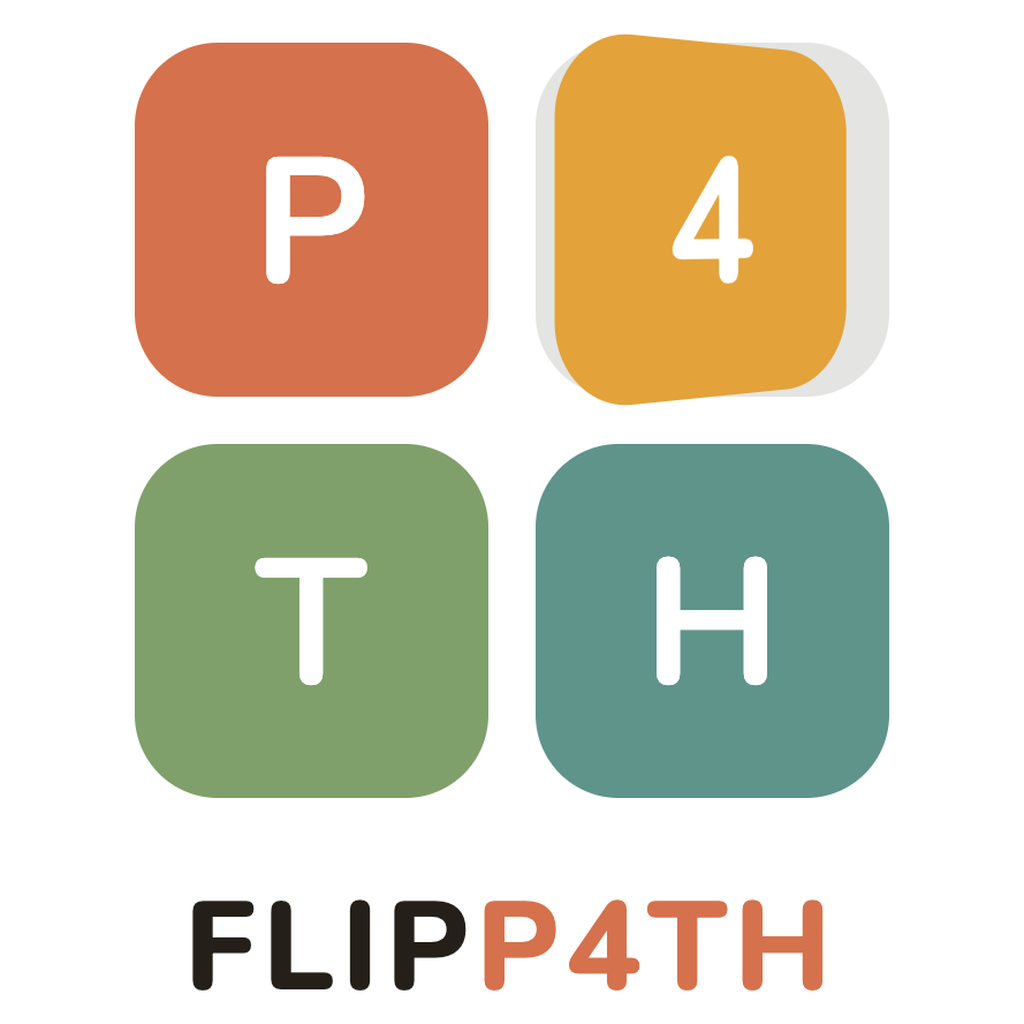
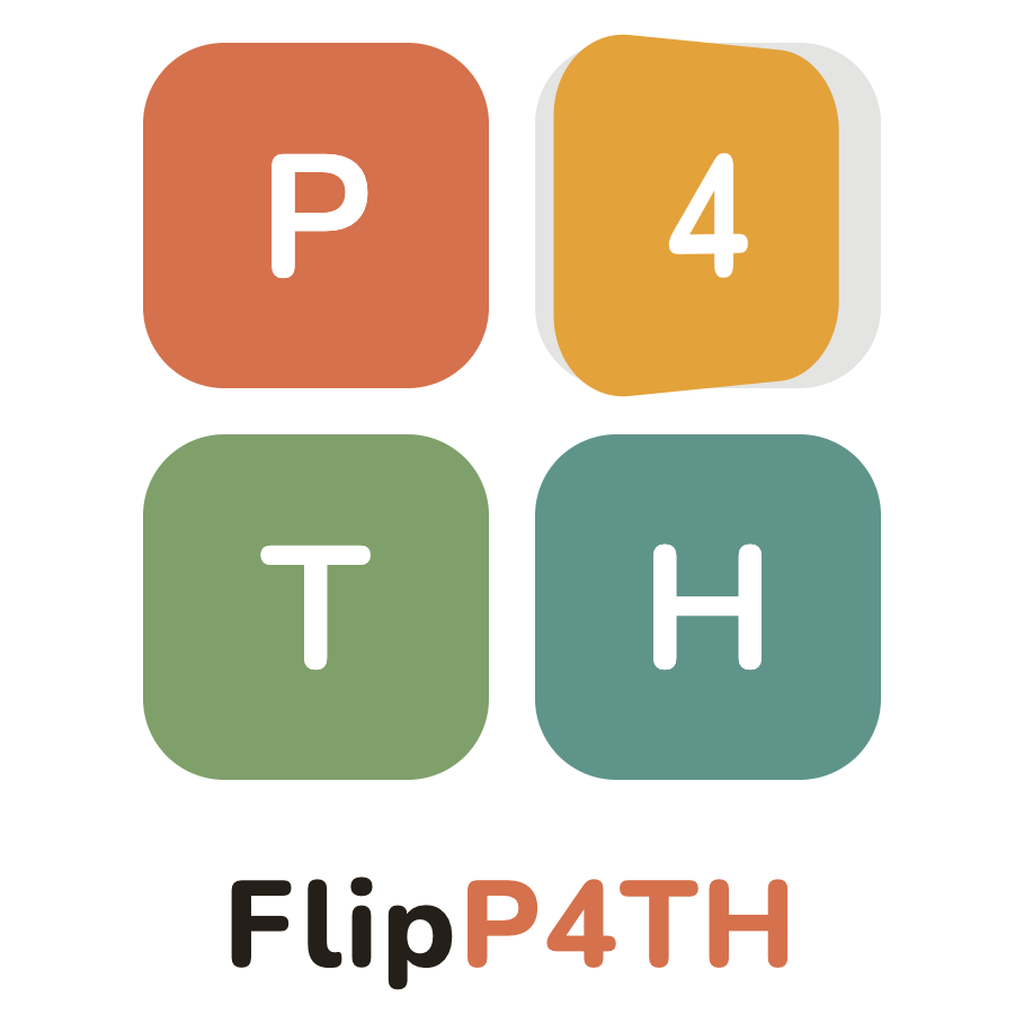
backup

diff --git a/index.html b/index.html
@@ -2,24 +2,24 @@
 <html lang="en">
 <head>
   <meta charset="utf-8">
-  <title>FLIP P4TH — Flip Puzzle Game</title>
+  <title>FlipP4TH — Flip Puzzle Game</title>
   <meta name="viewport" content="width=device-width,initial-scale=1,maximum-scale=1,user-scalable=no"/>
   <meta name="mobile-web-app-capable" content="yes">
   <meta name="apple-mobile-web-app-status-bar-style" content="default">
 
   <!-- App deep linking -->
   <meta property="al:ios:app_store_id" content="YOUR_APP_STORE_ID">
-  <meta property="al:ios:app_name" content="FLIP P4TH">
+  <meta property="al:ios:app_name" content="FlipP4TH">
   <meta property="al:ios:url" content="flipp4th://">
   <meta property="al:android:package" content="com.helioshred.flipp4th">
-  <meta property="al:android:app_name" content="FLIP P4TH">
+  <meta property="al:android:app_name" content="FlipP4TH">
   <meta property="al:android:url" content="flipp4th://">
 
   <link rel="icon" type="image/png" href="favicon.png">
   <link rel="apple-touch-icon" href="apple-touch-icon.png">
 
   <!-- Open Graph -->
-  <meta property="og:title" content="FLIP P4TH — Flip Puzzle Game">
+  <meta property="og:title" content="FlipP4TH — Flip Puzzle Game">
   <meta property="og:description" content="A new flip puzzle every day. Can you solve today's?">
   <meta property="og:type" content="website">
 
@@ -166,7 +166,7 @@
   <!-- ENTRY VIEW -->
   <div class="view active" id="view-entry">
     <div class="card">
-      <img class="logo-img" src="FlipPath-icon.png" alt="FLIP P4TH">
+      <img class="logo-img" src="FlipPath-icon.png" alt="FlipP4TH">
       <div class="level-label-wrap daily">
         <div class="small">DAILY CHALLENGE &middot; <span id="today-label"></span></div>
         <div class="name" id="level-name">Loading...</div>
@@ -227,14 +227,14 @@
   <!-- SHARED/DEEPLINK VIEW (download prompt for ?s= and ?p= links) -->
   <div class="view" id="view-shared" style="max-width:360px">
     <div class="card" style="gap:20px">
-      <img class="logo-img" src="FlipPath-icon.png" alt="FLIP P4TH">
+      <img class="logo-img" src="FlipPath-icon.png" alt="FlipP4TH">
       <div style="text-align:center">
         <div style="font:800 20px 'Nunito',sans-serif" id="shared-title">Someone shared a puzzle!</div>
-        <div style="font:700 13px 'Nunito',sans-serif;color:#8d8474;margin-top:6px" id="shared-subtitle">Download FLIP P4TH to play shared levels</div>
+        <div style="font:700 13px 'Nunito',sans-serif;color:#8d8474;margin-top:6px" id="shared-subtitle">Download FlipP4TH to play shared levels</div>
       </div>
       <div class="store-section" style="margin-top:0">
         <div class="store-header">
-          <div class="store-title">Get FLIP P4TH</div>
+          <div class="store-title">Get FlipP4TH</div>
           <div class="store-sub">Play shared levels &amp; 340+ puzzles!</div>
         </div>
         <div class="store-buttons">
@@ -365,7 +365,7 @@
       if (isDeepLink) {
         if (isLevelLink) {
           document.getElementById('shared-title').textContent = 'Someone challenged you!';
-          document.getElementById('shared-subtitle').textContent = 'Download FLIP P4TH to play this level';
+          document.getElementById('shared-subtitle').textContent = 'Download FlipP4TH to play this level';
         }
         showView('view-shared');
 
@@ -442,7 +442,7 @@
 
       // Share
       document.getElementById('btn-share').onclick = function() {
-        var text = "I solved today's FLIP P4TH Daily Challenge" +
+        var text = "I solved today's FlipP4TH Daily Challenge" +
           (winMoves ? ' in ' + winMoves + ' moves' : '') +
           '! ' + streak + '-day streak.\nhttps://flipp4th.app/';
         if (navigator.share) {

diff --git a/terms.html b/terms.html
@@ -3,7 +3,7 @@
 <head>
   <meta charset="UTF-8">
   <meta name="viewport" content="width=device-width, initial-scale=1.0">
-  <title>Terms of Use - FLIP P4TH</title>
+  <title>Terms of Use - FlipP4TH</title>
   <link rel="preconnect" href="https://fonts.googleapis.com">
   <link rel="preconnect" href="https://fonts.gstatic.com" crossorigin>
   <link href="https://fonts.googleapis.com/css2?family=Nunito:wght@600;800&display=swap" rel="stylesheet">
@@ -70,12 +70,12 @@
 </head>
 <body>
   <div class="container">
-    <a class="back-link" href="/">&larr; Back to FLIP P4TH</a>
+    <a class="back-link" href="/">&larr; Back to FlipP4TH</a>
 
     <h1>Terms of Use</h1>
     <p class="effective-date">Effective date: September 25, 2026</p>
 
-    <p>These Terms of Use ("Terms") govern your use of the FLIP P4TH mobile application ("the Game") developed and published by the developer ("we", "us", "our"). By downloading, installing, or using the Game, you agree to these Terms. If you do not agree, do not use the Game.</p>
+    <p>These Terms of Use ("Terms") govern your use of the FlipP4TH mobile application ("the Game") developed and published by the developer ("we", "us", "our"). By downloading, installing, or using the Game, you agree to these Terms. If you do not agree, do not use the Game.</p>
 
     <h2>1. License</h2>
     <p>We grant you a limited, non-exclusive, non-transferable, revocable license to use the Game for personal, non-commercial purposes on devices you own or control, subject to these Terms and the rules of the platform from which you downloaded the Game (Apple App Store or Google Play Store).</p>
@@ -134,7 +134,7 @@
     <p>If you have questions about these Terms, contact us at:<br>
     <a href="mailto:support@flipp4th.app">support@flipp4th.app</a></p>
 
-    <p class="footer-note">FLIP P4TH &middot; Last updated September 25, 2026</p>
+    <p class="footer-note">FlipP4TH &middot; Last updated September 25, 2026</p>
   </div>
 </body>
 </html>

diff --git a/privacy.html b/privacy.html
@@ -3,7 +3,7 @@
 <head>
   <meta charset="UTF-8">
   <meta name="viewport" content="width=device-width, initial-scale=1.0">
-  <title>Privacy Policy - FLIP P4TH</title>
+  <title>Privacy Policy - FlipP4TH</title>
   <link rel="preconnect" href="https://fonts.googleapis.com">
   <link rel="preconnect" href="https://fonts.gstatic.com" crossorigin>
   <link href="https://fonts.googleapis.com/css2?family=Nunito:wght@600;800&display=swap" rel="stylesheet">
@@ -70,12 +70,12 @@
 </head>
 <body>
   <div class="container">
-    <a class="back-link" href="/">&larr; Back to FLIP P4TH</a>
+    <a class="back-link" href="/">&larr; Back to FlipP4TH</a>
 
     <h1>Privacy Policy</h1>
     <p class="effective-date">Effective date: September 27, 2026</p>
 
-    <p>FLIP P4TH ("the Game") is developed and published by the developer ("we", "us", "our"). We respect your privacy and are committed to protecting it. This policy explains what data we collect, why, and how you can control it.</p>
+    <p>FlipP4TH ("the Game") is developed and published by the developer ("we", "us", "our"). We respect your privacy and are committed to protecting it. This policy explains what data we collect, why, and how you can control it.</p>
 
     <h2>1. Data We Collect</h2>
     <p>We collect <strong>anonymous gameplay analytics</strong> to understand how players use the Game and to improve it. The specific events we track are:</p>
@@ -167,7 +167,7 @@
     <p>If you have questions about this policy, contact us at:<br>
     <a href="mailto:support@flipp4th.app">support@flipp4th.app</a></p>
 
-    <p class="footer-note">FLIP P4TH &middot; Last updated September 27, 2026</p>
+    <p class="footer-note">FlipP4TH &middot; Last updated September 27, 2026</p>
   </div>
 </body>
 </html>
